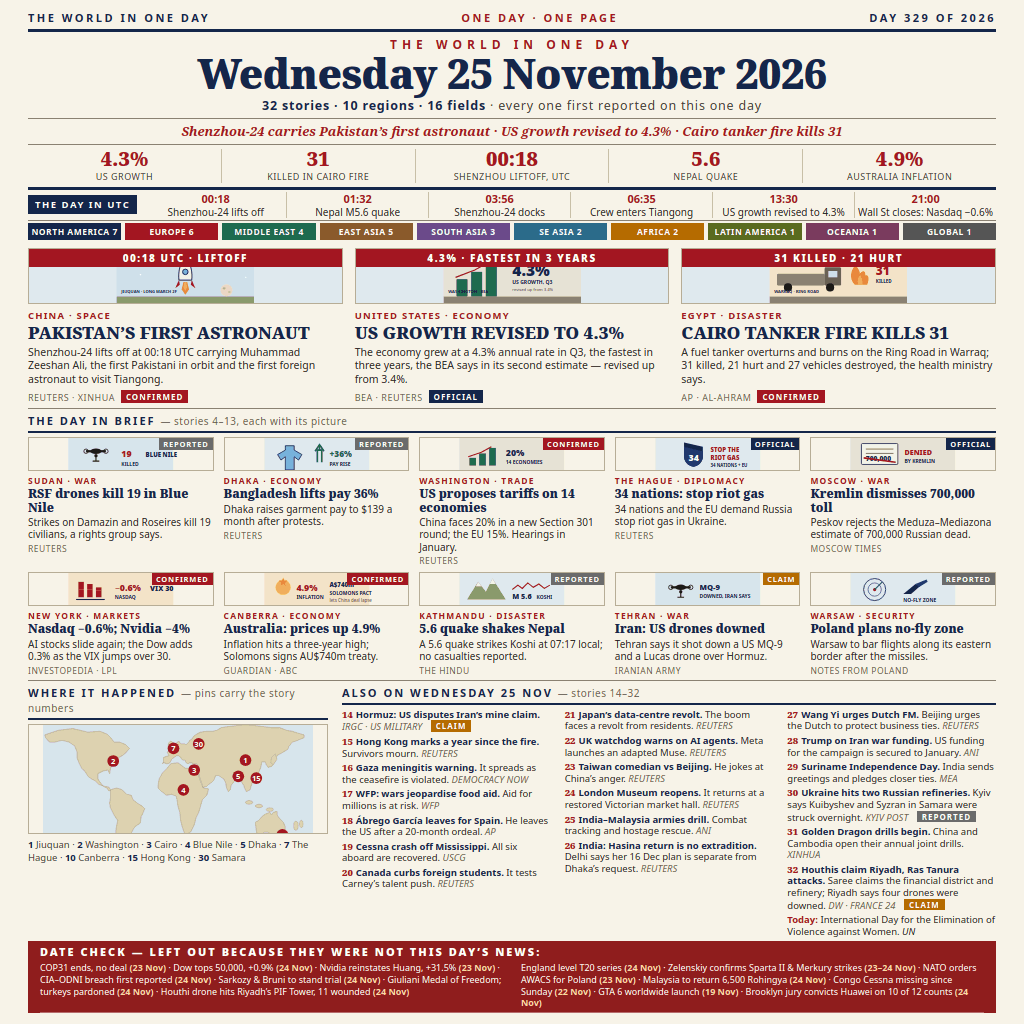
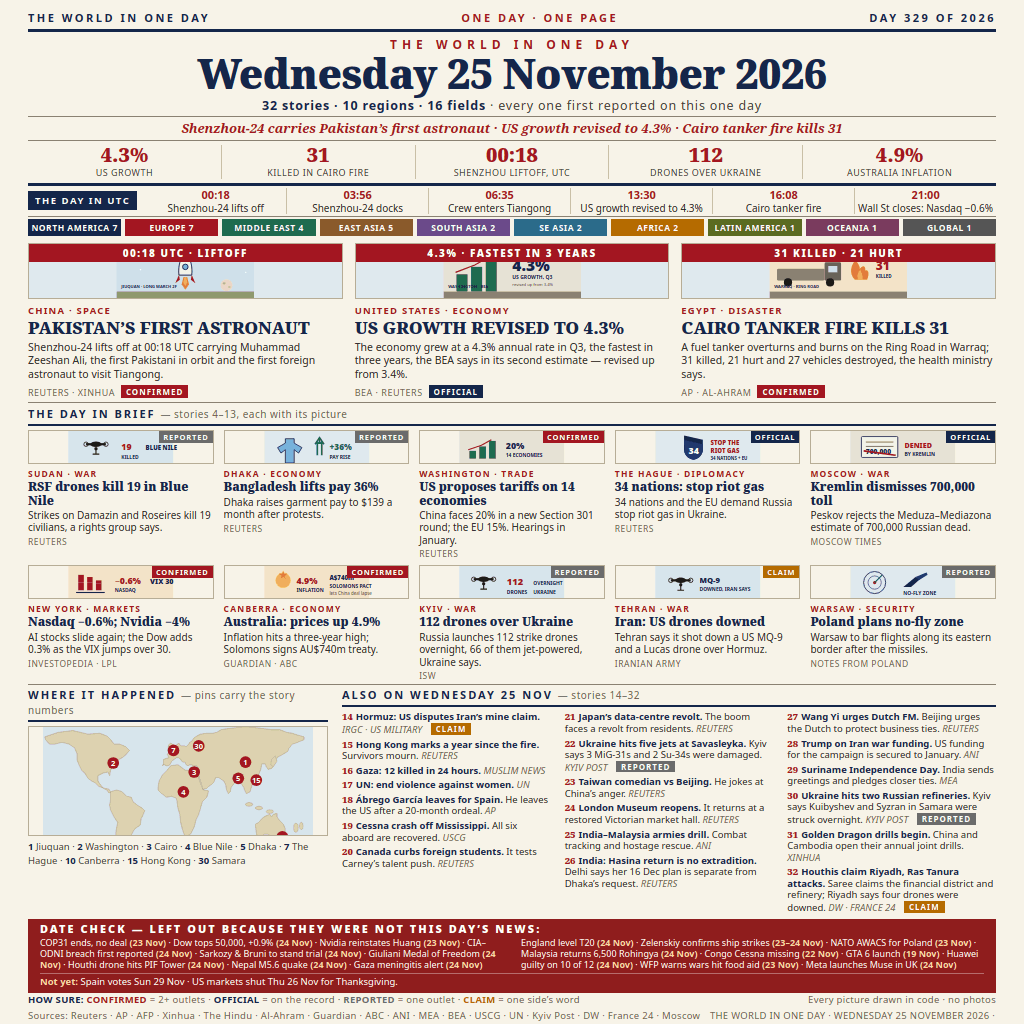
News image v3: fix 4 wrong-day items (Nepal quake, Gaza meningitis, WFP, Meta Muse), add 112-drone card, restore footer in frame

diff --git a/page.html b/page.html
@@ -12,7 +12,7 @@
     font-family: "Noto Sans", sans-serif;
     -webkit-font-smoothing: antialiased;
   }
-  .page { width: 1024px; height: 1024px; padding: 10px 28px 8px; display: flex; flex-direction: column; }
+  .page { width: 1024px; height: 1024px; padding: 10px 28px 4px; display: flex; flex-direction: column; }
   .serif { font-family: "Noto Serif", serif; }
 
   /* top strip */
@@ -23,9 +23,9 @@
   .masthead { text-align: center; padding: 4px 0 0; }
   .masthead .name { font-size: 12px; letter-spacing: 5px; font-weight: 700; color: #a31621; text-transform: uppercase; }
   .masthead h1 { font-family: "Noto Serif", serif; font-weight: 900; font-size: 41px; line-height: 1.02; color: #14264a; letter-spacing: -0.5px; }
-  .subline { text-align: center; font-size: 12.5px; letter-spacing: 0.8px; color: #4a4438; padding: 2px 0 4px; border-bottom: 1px solid #8a8172; }
+  .subline { text-align: center; font-size: 12.5px; letter-spacing: 0.8px; color: #4a4438; padding: 2px 0 2px; border-bottom: 1px solid #8a8172; }
   .subline b { color: #14264a; }
-  .subline-red { text-align: center; font-size: 13px; font-style: italic; color: #a31621; padding: 3px 0 4px; font-family: "Noto Serif", serif; font-weight: 700; }
+  .subline-red { text-align: center; font-size: 13px; font-style: italic; color: #a31621; padding: 2px 0 3px; font-family: "Noto Serif", serif; font-weight: 700; }
 
   /* numbers strip */
   .numbers { display: flex; border-top: 1px solid #8a8172; border-bottom: 3px solid #14264a; padding: 4px 0; }
@@ -50,7 +50,7 @@
   .c10 { background: #555; }
 
   /* leads */
-  .leads { display: flex; gap: 12px; padding: 5px 0 4px; border-bottom: 1px solid #8a8172; }
+  .leads { display: flex; gap: 12px; padding: 4px 0 3px; border-bottom: 1px solid #8a8172; }
   .lead { flex: 1; }
   .lead .art { height: 56px; border: 1px solid #b7ad96; background: #dfe9ee; position: relative; }
   .lead .art svg { display: block; width: 100%; height: 100%; }
@@ -65,7 +65,7 @@
   .tag.claim { background: #b56b00; }
 
   /* brief cards 4-13 */
-  .cards { padding: 4px 0; border-bottom: 1px solid #8a8172; }
+  .cards { padding: 3px 0; border-bottom: 1px solid #8a8172; }
   .cards h3, .mid h3 { font-size: 11px; letter-spacing: 2px; font-weight: 700; color: #14264a; text-transform: uppercase; border-bottom: 2px solid #14264a; padding-bottom: 3px; margin-bottom: 4px; }
   .cards h3 span, .mid h3 span { color: #6d6350; font-weight: 400; letter-spacing: 0.5px; text-transform: none; font-size: 10px; }
   .crow { display: flex; gap: 10px; }
@@ -83,7 +83,7 @@
   .card .src { margin-top: 2px; font-size: 8.5px; }
 
   /* map + also on */
-  .mid { display: flex; gap: 14px; padding: 4px 0; flex: 1; }
+  .mid { display: flex; gap: 14px; padding: 2px 0; flex: 1; }
   .mapbox { width: 300px; flex-shrink: 0; }
   .mapbox svg { display: block; width: 300px; height: 110px; border: 1px solid #b7ad96; }
   .mapkey { font-size: 9.5px; line-height: 1.4; color: #4a4438; margin-top: 4px; }
@@ -99,16 +99,16 @@
   .today b { color: #a31621; }
 
   /* date check */
-  .datecheck { background: #8f1d1d; color: #fff; padding: 4px 12px 5px; font-size: 10px; line-height: 1.35; }
+  .datecheck { background: #8f1d1d; color: #fff; padding: 3px 12px 4px; font-size: 10px; line-height: 1.35; }
   .datecheck .t { font-weight: 900; letter-spacing: 2px; font-size: 11px; }
   .dc-cols { display: flex; gap: 18px; margin-top: 2px; }
-  .dc-col { flex: 1; font-size: 9px; line-height: 1.3; }
+  .dc-col { flex: 1; font-size: 9px; line-height: 1.22; }
   .dc-col b { color: #ffd9a8; }
-  .dc-notyet { margin-top: 3px; font-size: 9.5px; line-height: 1.35; border-top: 1px solid rgba(255,255,255,0.35); padding-top: 3px; }
+  .dc-notyet { margin-top: 2px; font-size: 9.5px; line-height: 1.35; border-top: 1px solid rgba(255,255,255,0.35); padding-top: 2px; }
   .dc-notyet b { color: #ffd9a8; }
 
   /* footer */
-  .footer { padding-top: 2px; font-size: 9.5px; color: #6d6350; letter-spacing: 0.3px; }
+  .footer { padding-top: 0; font-size: 9.5px; color: #6d6350; letter-spacing: 0.3px; }
   .footer .how { display: flex; justify-content: space-between; }
   .footer .how b { color: #14264a; }
   .footer .how .cf { color: #a31621; font-weight: 700; }
@@ -138,26 +138,26 @@
     <div class="num"><div class="v">4.3%</div><div class="l">US growth</div></div>
     <div class="num"><div class="v">31</div><div class="l">killed in Cairo fire</div></div>
     <div class="num"><div class="v">00:18</div><div class="l">Shenzhou liftoff, UTC</div></div>
-    <div class="num"><div class="v">5.6</div><div class="l">Nepal quake</div></div>
+    <div class="num"><div class="v">112</div><div class="l">Drones over Ukraine</div></div>
     <div class="num"><div class="v">4.9%</div><div class="l">Australia inflation</div></div>
   </div>
 
   <div class="timeline">
     <span class="tlabel">THE DAY IN UTC</span>
     <div class="tl"><b>00:18</b>Shenzhou-24 lifts off</div>
-    <div class="tl"><b>01:32</b>Nepal M5.6 quake</div>
     <div class="tl"><b>03:56</b>Shenzhou-24 docks</div>
     <div class="tl"><b>06:35</b>Crew enters Tiangong</div>
     <div class="tl"><b>13:30</b>US growth revised to 4.3%</div>
+    <div class="tl"><b>16:08</b>Cairo tanker fire</div>
     <div class="tl"><b>21:00</b>Wall St closes: Nasdaq &minus;0.6%</div>
   </div>
 
   <div class="chips">
     <span class="chip c1">North America 7</span>
-    <span class="chip c2">Europe 6</span>
+    <span class="chip c2">Europe 7</span>
     <span class="chip c3">Middle East 4</span>
     <span class="chip c4">East Asia 5</span>
-    <span class="chip c5">South Asia 3</span>
+    <span class="chip c5">South Asia 2</span>
     <span class="chip c6">SE Asia 2</span>
     <span class="chip c7">Africa 2</span>
     <span class="chip c8">Latin America 1</span>
@@ -386,18 +386,25 @@
       <div class="card">
         <div class="art"><span class="badge rep">REPORTED</span>
           <svg viewBox="0 0 190 58" xmlns="http://www.w3.org/2000/svg">
-            <rect width="190" height="58" fill="#dfe9ee"/>
-            <path d="M14 48 L 34 16 L 48 34 L 60 10 L 84 48 Z" fill="#8a9a6b"/>
-            <path d="M34 16 L 40 24 L 30 24 Z M 60 10 L 66 20 L 55 20 Z" fill="#f4f1e8"/>
-            <path d="M96 30 L 106 22 L 114 28 L 124 18 L 134 26 L 144 20 L 154 28 L 164 22" stroke="#a31621" stroke-width="2" fill="none"/>
-            <text x="96" y="48" font-family="Noto Sans" font-size="13" font-weight="900" fill="#14264a">M 5.6</text>
-            <text x="140" y="48" font-family="Noto Sans" font-size="9" font-weight="700" fill="#14264a">KOSHI</text>
+            <rect width="190" height="58" fill="#d7e5ec"/>
+            <g transform="translate(18,12)">
+              <ellipse cx="26" cy="12" rx="10" ry="5" fill="#1c1a16"/>
+              <rect x="8" y="10" width="36" height="4" fill="#1c1a16"/>
+              <circle cx="8" cy="12" r="4" fill="none" stroke="#1c1a16" stroke-width="1.5"/>
+              <circle cx="44" cy="12" r="4" fill="none" stroke="#1c1a16" stroke-width="1.5"/>
+              <circle cx="26" cy="20" r="3" fill="#1c1a16"/>
+              <path d="M26 20 L 26 30 M 20 30 L 32 30" stroke="#1c1a16" stroke-width="2"/>
+            </g>
+            <text x="86" y="34" font-family="Noto Sans" font-size="17" font-weight="900" fill="#a31621">112</text>
+            <text x="86" y="50" font-family="Noto Sans" font-size="9" font-weight="700" fill="#14264a">DRONES</text>
+            <text x="134" y="34" font-family="Noto Sans" font-size="9" font-weight="700" fill="#14264a">OVERNIGHT</text>
+            <text x="134" y="50" font-family="Noto Sans" font-size="9" font-weight="700" fill="#14264a">UKRAINE</text>
           </svg>
         </div>
-        <div class="kicker">Kathmandu &middot; Disaster</div>
-        <h4>5.6 quake shakes Nepal</h4>
-        <p>A 5.6 quake strikes Koshi at 07:17 local; no casualties reported.</p>
-        <div class="src">THE HINDU</div>
+        <div class="kicker">Kyiv &middot; War</div>
+        <h4>112 drones over Ukraine</h4>
+        <p>Russia launches 112 strike drones overnight, 66 of them jet-powered, Ukraine says.</p>
+        <div class="src">ISW</div>
       </div>
       <div class="card">
         <div class="art"><span class="badge claim">CLAIM</span>
@@ -481,15 +488,15 @@
         <div class="acol">
           <div class="aitem"><span class="n">14</span><b>Hormuz: US disputes Iran&rsquo;s mine claim.</b> <i>IRGC &middot; US MILITARY</i> <span class="tag claim">CLAIM</span></div>
           <div class="aitem"><span class="n">15</span><b>Hong Kong marks a year since the fire.</b> Survivors mourn. <i>REUTERS</i></div>
-          <div class="aitem"><span class="n">16</span><b>Gaza meningitis warning.</b> It spreads as the ceasefire is violated. <i>DEMOCRACY NOW</i></div>
-          <div class="aitem"><span class="n">17</span><b>WFP: wars jeopardise food aid.</b> Aid for millions is at risk. <i>WFP</i></div>
+          <div class="aitem"><span class="n">16</span><b>Gaza: 12 killed in 24 hours.</b> <i>MUSLIM NEWS</i></div>
+          <div class="aitem"><span class="n">17</span><b>UN: end violence against women.</b> <i>UN</i></div>
           <div class="aitem"><span class="n">18</span><b>&Aacute;brego Garc&iacute;a leaves for Spain.</b> He leaves the US after a 20-month ordeal. <i>AP</i></div>
           <div class="aitem"><span class="n">19</span><b>Cessna crash off Mississippi.</b> All six aboard are recovered. <i>USCG</i></div>
           <div class="aitem"><span class="n">20</span><b>Canada curbs foreign students.</b> It tests Carney&rsquo;s talent push. <i>REUTERS</i></div>
         </div>
         <div class="acol">
           <div class="aitem"><span class="n">21</span><b>Japan&rsquo;s data-centre revolt.</b> The boom faces a revolt from residents. <i>REUTERS</i></div>
-          <div class="aitem"><span class="n">22</span><b>UK watchdog warns on AI agents.</b> Meta launches an adapted Muse. <i>REUTERS</i></div>
+          <div class="aitem"><span class="n">22</span><b>Ukraine hits five jets at Savasleyka.</b> Kyiv says 3 MiG-31s and 2 Su-34s were damaged. <i>KYIV POST</i> <span class="tag rep">REPORTED</span></div>
           <div class="aitem"><span class="n">23</span><b>Taiwan comedian vs Beijing.</b> He jokes at China&rsquo;s anger. <i>REUTERS</i></div>
           <div class="aitem"><span class="n">24</span><b>London Museum reopens.</b> It returns at a restored Victorian market hall. <i>REUTERS</i></div>
           <div class="aitem"><span class="n">25</span><b>India&ndash;Malaysia armies drill.</b> Combat tracking and hostage rescue. <i>ANI</i></div>
@@ -502,7 +509,6 @@
           <div class="aitem"><span class="n">30</span><b>Ukraine hits two Russian refineries.</b> Kyiv says Kuibyshev and Syzran in Samara were struck overnight. <i>KYIV POST</i> <span class="tag rep">REPORTED</span></div>
           <div class="aitem"><span class="n">31</span><b>Golden Dragon drills begin.</b> China and Cambodia open their annual joint drills. <i>XINHUA</i></div>
           <div class="aitem"><span class="n">32</span><b>Houthis claim Riyadh, Ras Tanura attacks.</b> Saree claims the financial district and refinery; Riyadh says four drones were downed. <i>DW &middot; FRANCE 24</i> <span class="tag claim">CLAIM</span></div>
-          <div class="today"><b>Today:</b> International Day for the Elimination of Violence against Women. <i>UN</i></div>
         </div>
       </div>
     </div>
@@ -512,10 +518,10 @@
     <span class="t">DATE CHECK &mdash; LEFT OUT BECAUSE THEY WERE NOT THIS DAY&rsquo;S NEWS:</span>
     <div class="dc-cols">
       <div class="dc-col">
-        COP31 ends, no deal <b>(23 Nov)</b> &middot; Dow tops 50,000, +0.9% <b>(24 Nov)</b> &middot; Nvidia reinstates Huang, +31.5% <b>(23 Nov)</b> &middot; CIA&ndash;ODNI breach first reported <b>(24 Nov)</b> &middot; Sarkozy &amp; Bruni to stand trial <b>(24 Nov)</b> &middot; Giuliani Medal of Freedom; turkeys pardoned <b>(24 Nov)</b> &middot; Houthi drone hits Riyadh&rsquo;s PIF Tower, 11 wounded <b>(24 Nov)</b>
+        COP31 ends, no deal <b>(23 Nov)</b> &middot; Dow tops 50,000, +0.9% <b>(24 Nov)</b> &middot; Nvidia reinstates Huang <b>(23 Nov)</b> &middot; CIA&ndash;ODNI breach first reported <b>(24 Nov)</b> &middot; Sarkozy &amp; Bruni to stand trial <b>(24 Nov)</b> &middot; Giuliani Medal of Freedom <b>(24 Nov)</b> &middot; Houthi drone hits PIF Tower <b>(24 Nov)</b> &middot; Nepal M5.6 quake <b>(24 Nov)</b> &middot; Gaza meningitis alert <b>(24 Nov)</b>
       </div>
       <div class="dc-col">
-        England level T20 series <b>(24 Nov)</b> &middot; Zelenskiy confirms Sparta II &amp; Merkury strikes <b>(23&ndash;24 Nov)</b> &middot; NATO orders AWACS for Poland <b>(23 Nov)</b> &middot; Malaysia to return 6,500 Rohingya <b>(24 Nov)</b> &middot; Congo Cessna missing since Sunday <b>(22 Nov)</b> &middot; GTA 6 worldwide launch <b>(19 Nov)</b> &middot; Brooklyn jury convicts Huawei on 10 of 12 counts <b>(24 Nov)</b>
+        England level T20 <b>(24 Nov)</b> &middot; Zelenskiy confirms ship strikes <b>(23&ndash;24 Nov)</b> &middot; NATO AWACS for Poland <b>(23 Nov)</b> &middot; Malaysia returns 6,500 Rohingya <b>(24 Nov)</b> &middot; Congo Cessna missing <b>(22 Nov)</b> &middot; GTA 6 launch <b>(19 Nov)</b> &middot; Huawei guilty on 10 of 12 <b>(24 Nov)</b> &middot; WFP warns wars hit food aid <b>(23 Nov)</b> &middot; Meta launches Muse in UK <b>(24 Nov)</b>
       </div>
     </div>
     <div class="dc-notyet"><b>Not yet:</b> Spain votes Sun 29 Nov &middot; US markets shut Thu 26 Nov for Thanksgiving.</div>
@@ -523,7 +529,7 @@
 
   <div class="footer">
     <div class="how"><span><b>HOW SURE:</b> <span class="cf">CONFIRMED</span> = 2+ outlets &middot; <span class="of">OFFICIAL</span> = on the record &middot; <span class="rp">REPORTED</span> = one outlet &middot; <span class="cl">CLAIM</span> = one side&rsquo;s word</span><span>Every picture drawn in code &middot; no photos</span></div>
-    <div class="srcs"><span>Sources: Reuters &middot; AP &middot; AFP &middot; Xinhua &middot; The Hindu &middot; Al-Ahram &middot; Guardian &middot; ABC &middot; ANI &middot; MEA &middot; BEA &middot; WFP &middot; USCG &middot; UN &middot; Kyiv Post &middot; DW &middot; France 24 &middot; Moscow Times</span><span>THE WORLD IN ONE DAY &middot; WEDNESDAY 25 NOVEMBER 2026 &middot; ONE PAGE</span></div>
+    <div class="srcs"><span>Sources: Reuters &middot; AP &middot; AFP &middot; Xinhua &middot; The Hindu &middot; Al-Ahram &middot; Guardian &middot; ABC &middot; ANI &middot; MEA &middot; BEA &middot; USCG &middot; UN &middot; Kyiv Post &middot; DW &middot; France 24 &middot; Moscow Times &middot; ISW &middot; Muslim News</span><span>THE WORLD IN ONE DAY &middot; WEDNESDAY 25 NOVEMBER 2026 &middot; ONE PAGE</span></div>
   </div>
 
 </div>
